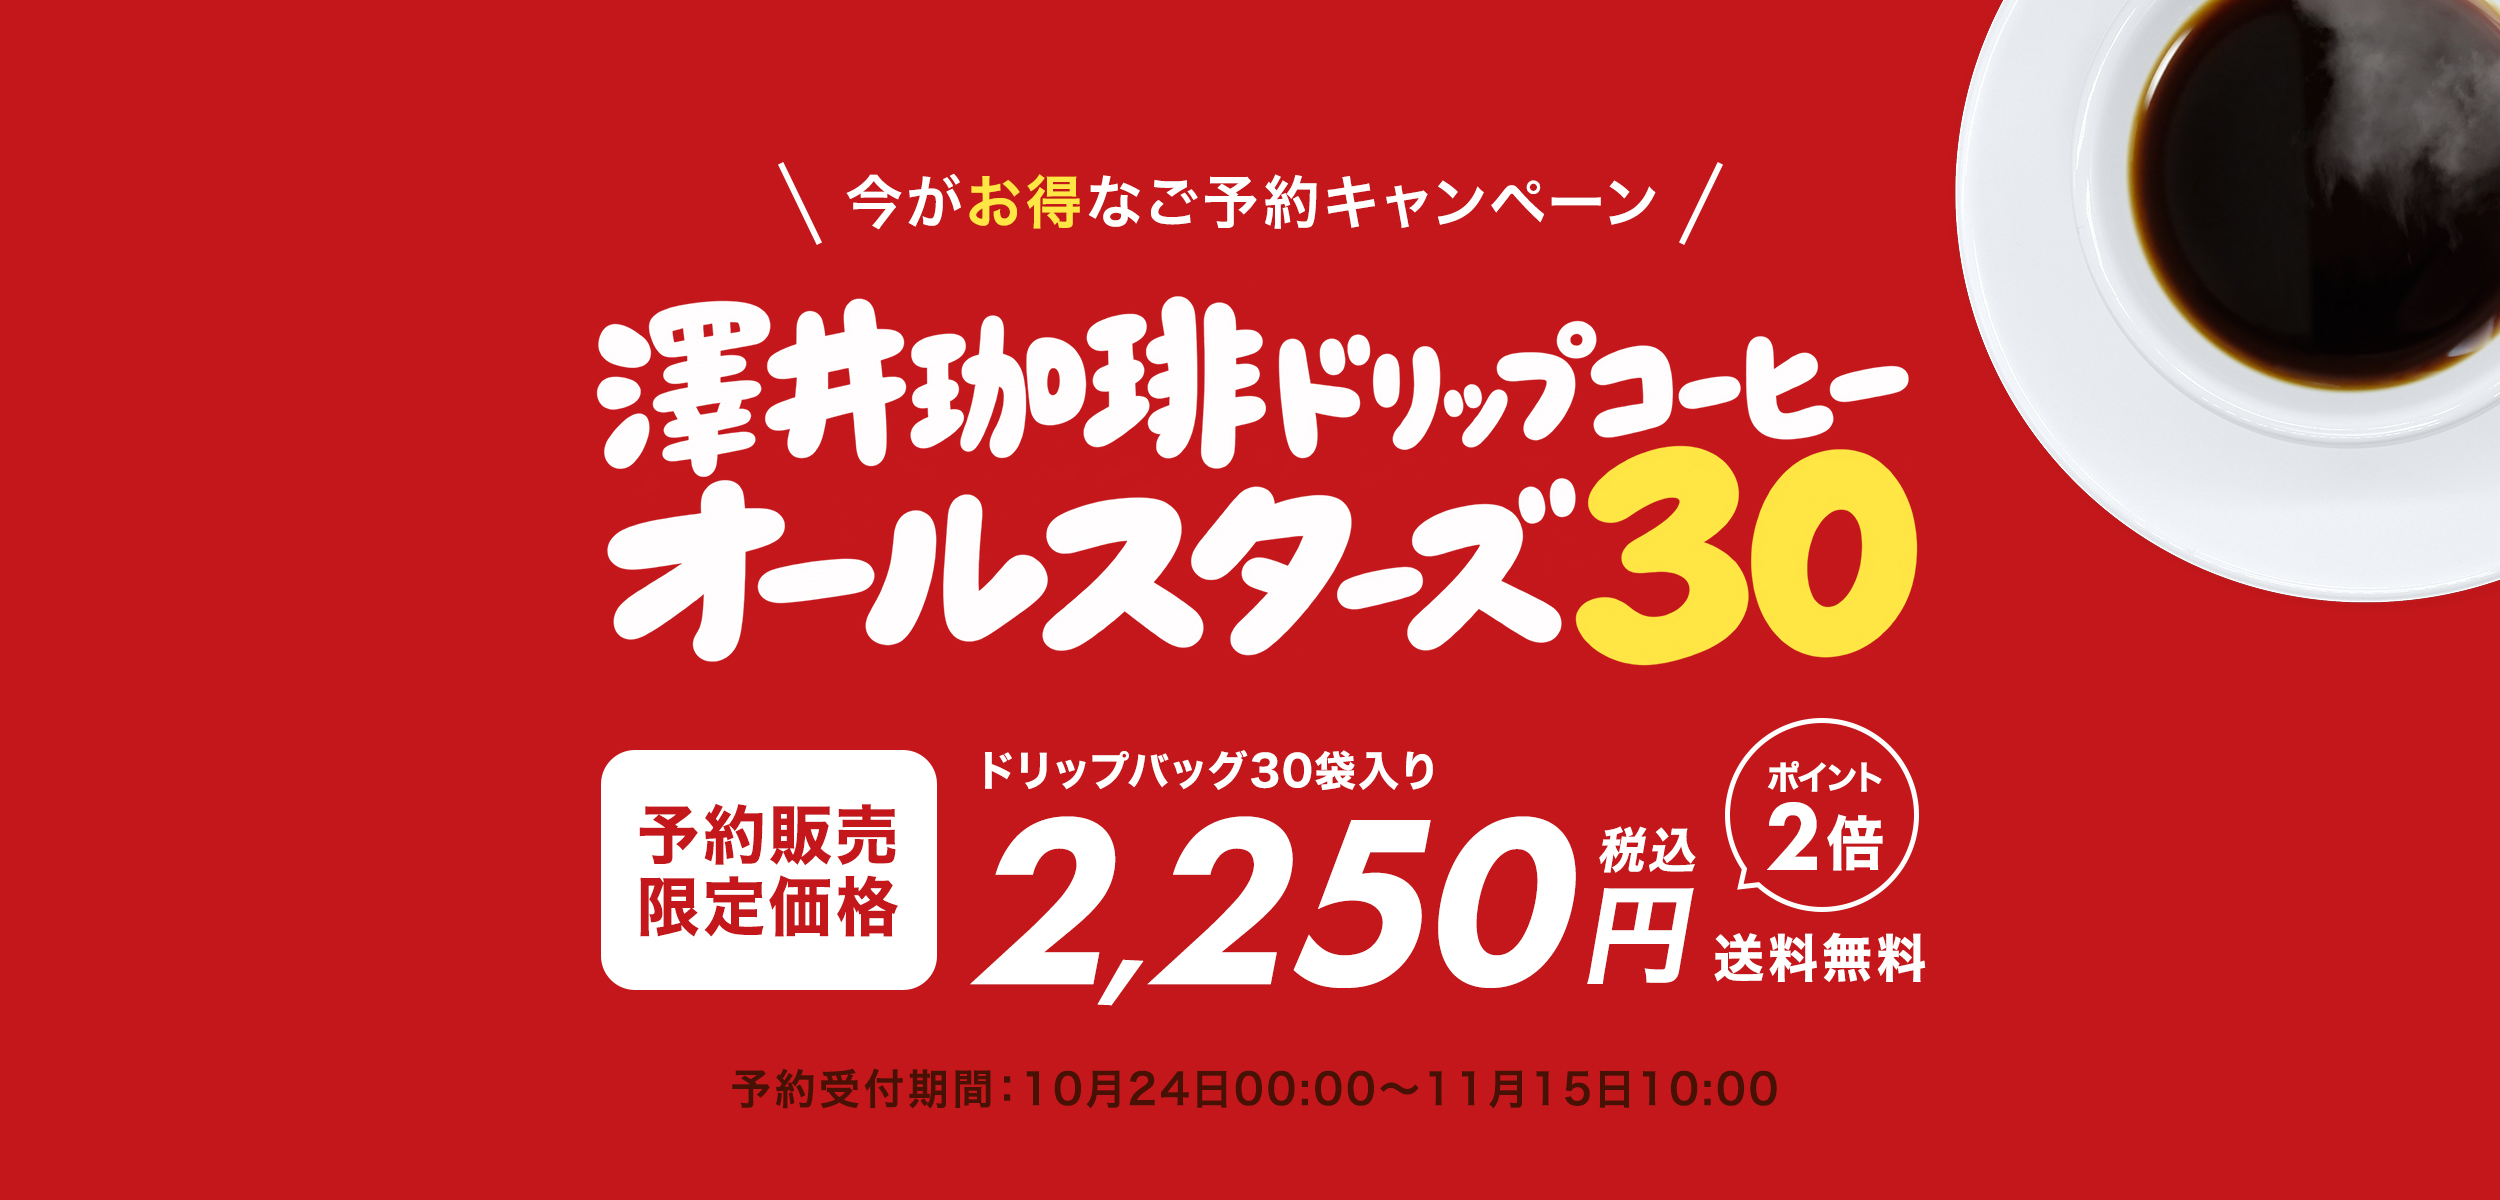
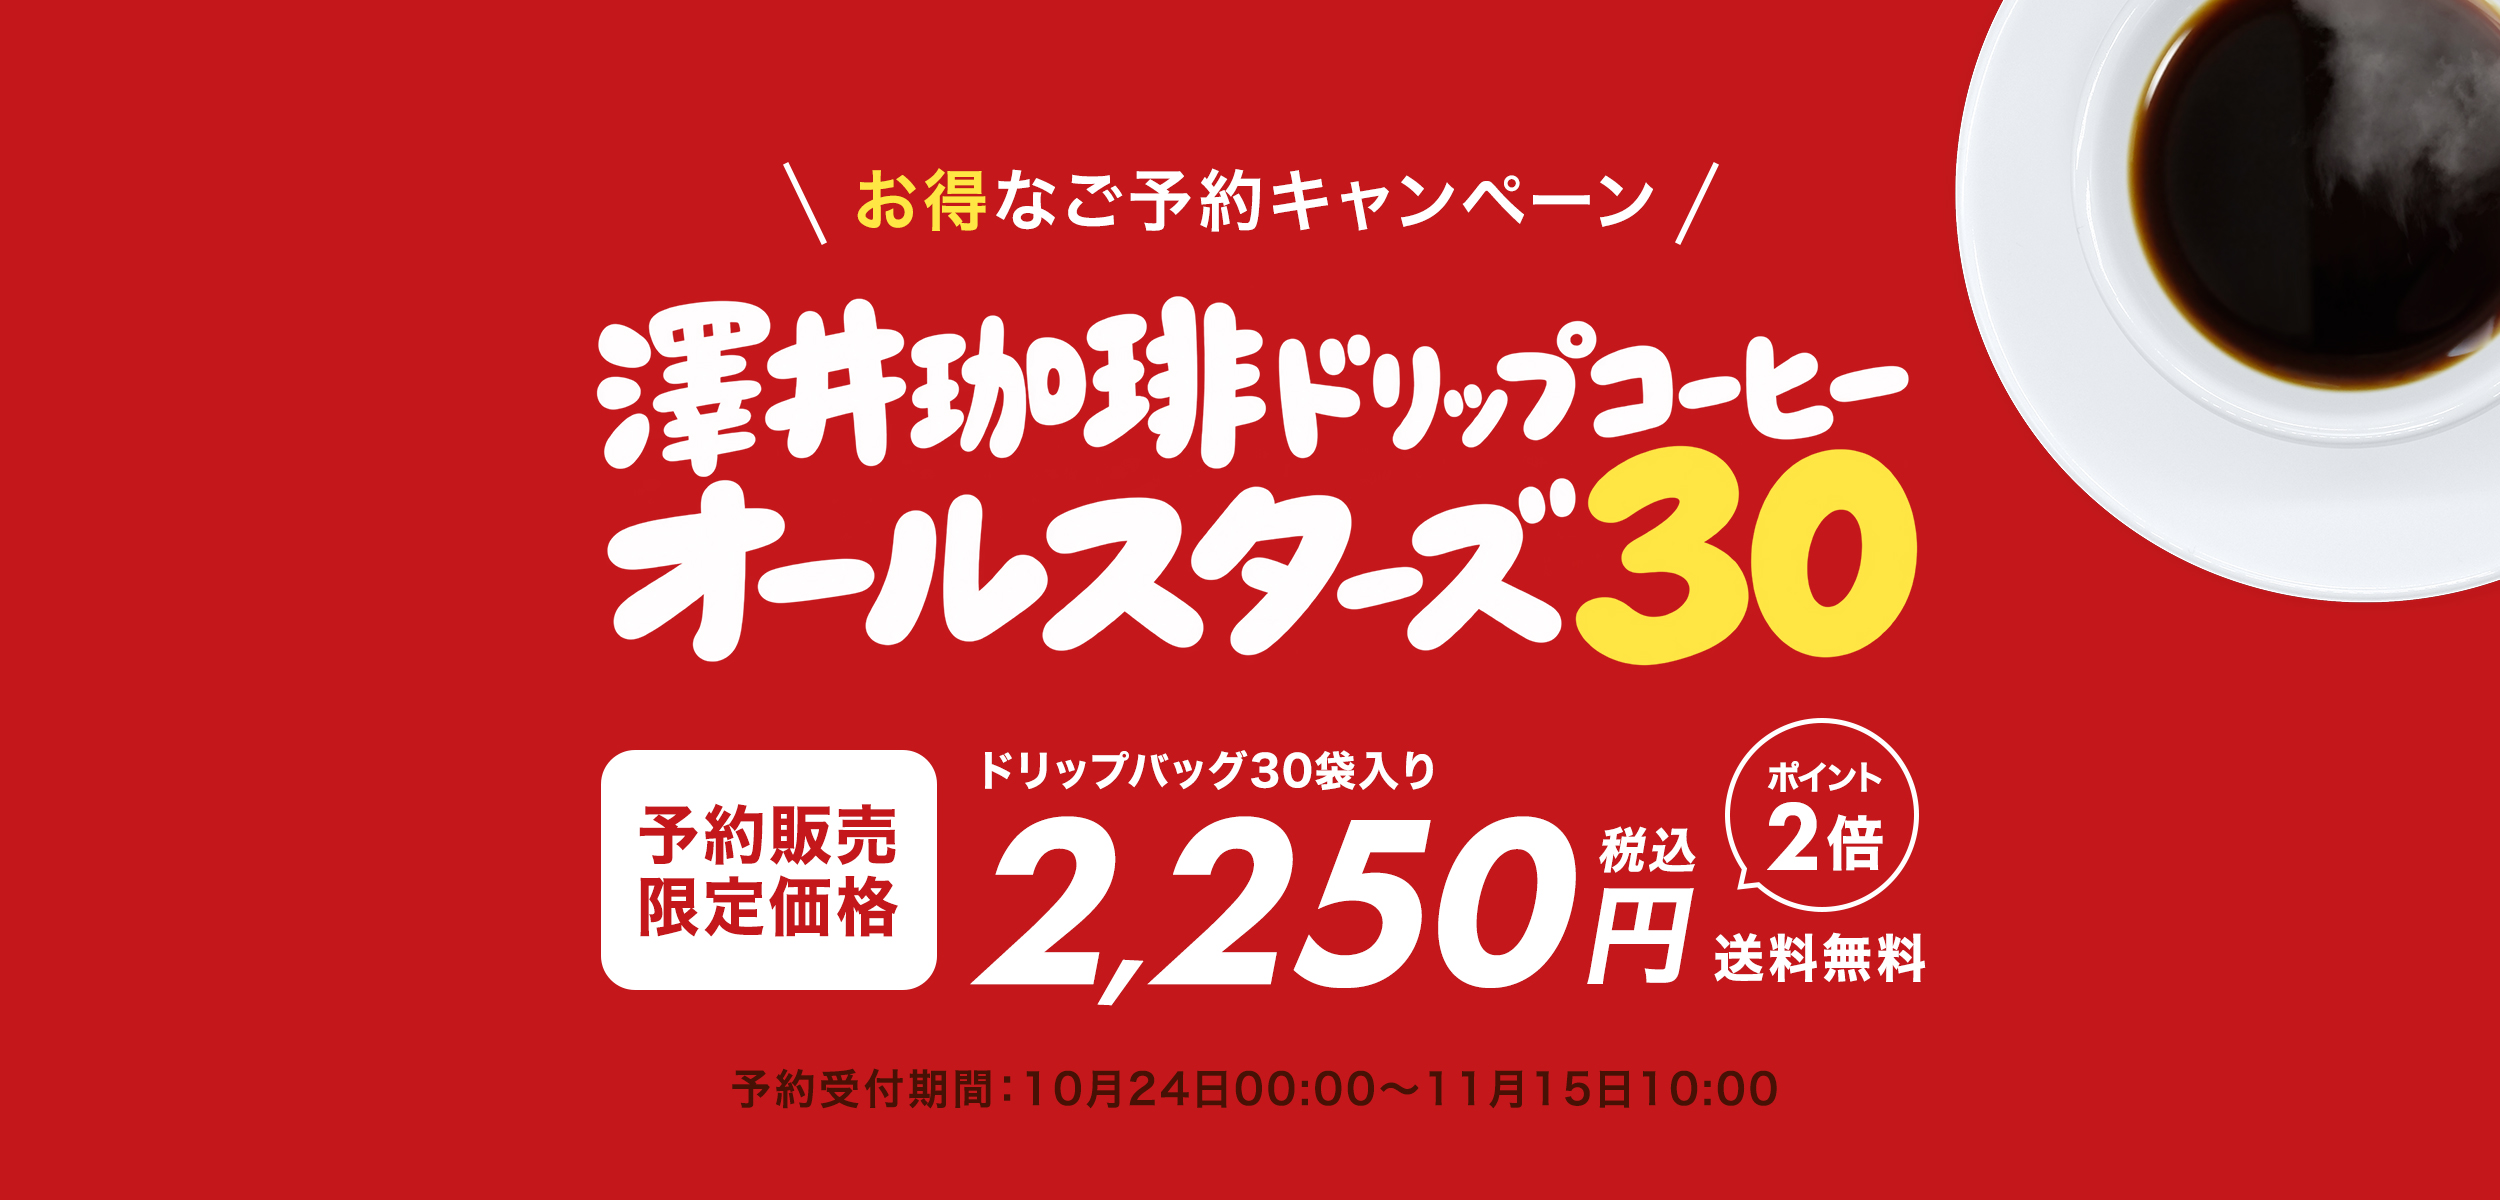
FV画像（PC・スマホ）を差し替え、スマホのヘッダーをロゴ中央＋発売日の小見出しに

Changed region(s): [[0.312, 0.1233, 0.6864, 0.2158]]

diff --git a/index.html b/index.html
@@ -57,6 +57,7 @@ button{font:inherit;cursor:pointer;border:0;background:none;color:inherit}
 .hd-cta{background:var(--white);color:#d0121c;font-weight:800;font-size:13px;padding:8px 18px;border-radius:999px;text-decoration:none;transition:transform .2s}
 
 .hd-cta:hover{transform:scale(1.05)}
+.hd-sp-sub{display:none}
 /* メニュー（PC：ヘッダーに横並び／スマホ：ハンバーガーで開く） */
 .hd-nav{margin-left:auto;margin-right:20px}
 .hd-nav ul{display:flex;gap:22px;list-style:none}
@@ -80,13 +81,13 @@ html{scroll-padding-top:72px}
 @media (max-width:1100px){.pc-nav a{font-size:13px;padding:18px 4px}}
 @media (max-width:768px){.pc-nav{display:none}}
 @media (max-width:768px){
-  html{scroll-padding-top:58px}
-  .hd-burger{display:flex;flex-direction:column;justify-content:center;gap:5px;width:44px;height:44px;margin-right:-8px;padding:0 10px}
+  html{scroll-padding-top:70px}
+  .hd-burger{display:flex;flex-direction:column;justify-content:center;gap:5px;width:44px;height:44px;padding:0 10px}
   .hd-burger span{display:block;height:2px;background:var(--white);border-radius:2px;transition:transform .3s,opacity .3s}
   .hd.menu-on .hd-burger span:nth-child(1){transform:translateY(7px) rotate(45deg)}
   .hd.menu-on .hd-burger span:nth-child(2){opacity:0}
   .hd.menu-on .hd-burger span:nth-child(3){transform:translateY(-7px) rotate(-45deg)}
-  .hd-nav{display:block;position:fixed;left:0;right:0;top:52px;bottom:0;margin:0;background:#d0121c;padding:12px 24px 40px;overflow:auto;opacity:0;visibility:hidden;transform:translateY(-10px);transition:opacity .25s,transform .25s,visibility .25s}
+  .hd-nav{display:block;position:fixed;left:0;right:0;top:64px;bottom:0;margin:0;background:#d0121c;padding:12px 24px 40px;overflow:auto;opacity:0;visibility:hidden;transform:translateY(-10px);transition:opacity .25s,transform .25s,visibility .25s}
   .hd.menu-on .hd-nav{opacity:1;visibility:visible;transform:none}
   .hd-nav ul{flex-direction:column;gap:0}
   .hd-nav li{border-bottom:1px solid rgba(255,255,255,.25)}
@@ -194,7 +195,7 @@ html{scroll-padding-top:72px}
 }
 @media (max-width:768px){.fv-img{display:none}}
 /* ===== スマホのFV（画像＋流れる2列） ===== */
-.fv-sp{display:none;padding-top:52px;background:#c4171b}
+.fv-sp{display:none;padding-top:64px;background:#c4171b}
 .fv-sp-in{position:relative;overflow:hidden}
 .fv-sp-in>img:first-child{display:block;width:100%;height:auto}
 .fv-row{position:absolute;left:0;right:0;height:16.53%;overflow:hidden}
@@ -451,8 +452,10 @@ html{scroll-padding-top:72px}
   .cd-lbl{font-size:14px}
   .cd-time b{font-size:32px}
   .cd-u{font-size:12px;margin-right:2px}
-  .hd{height:52px;padding:0 16px}
-  .hd-logo img{height:26px}
+  .hd{height:64px;padding:0 16px;flex-direction:column;justify-content:center;gap:4px}
+  .hd-logo img{height:24px}
+  .hd-sp-sub{display:block!important;color:var(--white);font-size:11px;font-weight:700;letter-spacing:.06em;line-height:1.2}
+  .hd-burger{position:absolute;right:12px;top:50%;transform:translateY(-50%)}
   .hd-cta{display:none}
   .wrap{padding:0 16px}
   .fv{grid-template-columns:1fr;min-height:0;padding:0}
@@ -554,6 +557,7 @@ html{scroll-padding-top:72px}
 
 <header class="hd" id="hd">
   <a class="hd-logo" href="https://www.rakuten.co.jp/sawaicoffee-tea/" target="_blank" rel="noopener"><img src="img/logo.png" width="960" height="160" alt="SAWAI COFFEE 澤井珈琲"></a>
+  <p class="hd-sp-sub">発売日11月15日『オールスターズ30』</p>
   <p class="hd-ttl">発売日11月15日『オールスターズ30』ご予約キャンペーン</p>
   <nav class="hd-nav" id="hdNav" aria-label="メニュー">
     <ul>
@@ -577,7 +581,7 @@ html{scroll-padding-top:72px}
 <h1 class="vh" id="top">澤井珈琲ドリップコーヒー オールスターズ30｜予約販売限定価格2,250円（税込）送料無料</h1>
 <section class="fv-img">
   <div class="fv-img-in">
-    <img src="img/fv-pc.jpg" width="2500" height="1200" alt="今がお得なご予約キャンペーン　澤井珈琲ドリップコーヒー オールスターズ30　ドリップバッグ30袋入り　予約販売限定価格 2,250円（税込）送料無料　ポイント2倍　予約受付期間：10月24日00:00〜11月15日10:00">
+    <img src="img/fv-pc.jpg" width="2500" height="1200" alt="お得なご予約キャンペーン　澤井珈琲ドリップコーヒー オールスターズ30　ドリップバッグ30袋入り　予約販売限定価格 2,250円（税込）送料無料　ポイント2倍　予約受付期間：10月24日00:00〜11月15日10:00">
     <!-- 左の2列：ドリップバッグが縦に流れる（中身はJSで30種を入れる） -->
     <div class="fv-col c1" aria-hidden="true"><div class="fv-track" id="fvTrack1"></div></div>
     <div class="fv-col c2" aria-hidden="true"><div class="fv-track" id="fvTrack2"></div></div>
@@ -600,7 +604,7 @@ html{scroll-padding-top:72px}
 <!-- ▼ スマホのFV（画像＋横に流れる2列＋コーヒーカップ）。PCは上の画像FV -->
 <section class="fv-sp">
   <div class="fv-sp-in">
-    <img src="img/fv-sp.jpg" width="1500" height="2063" alt="今がお得なご予約キャンペーン　澤井珈琲ドリップコーヒー オールスターズ30　ドリップバッグ30袋入り　予約販売限定価格 2,250円（税込）送料無料　ポイント2倍　予約受付期間：10月24日00:00〜11月15日10:00">
+    <img src="img/fv-sp.jpg" width="1500" height="2063" alt="お得なご予約キャンペーン　澤井珈琲ドリップコーヒー オールスターズ30　ドリップバッグ30袋入り　予約販売限定価格 2,250円（税込）送料無料　ポイント2倍　予約受付期間：10月24日00:00〜11月15日10:00">
     <!-- 画像1500×2063のうち y=1252〜1593 と y=1622〜1963 の位置に、袋が横に流れる2列 -->
     <div class="fv-row r1" aria-hidden="true"><div class="fv-row-track" id="spTrack1"></div></div>
     <div class="fv-row r2" aria-hidden="true"><div class="fv-row-track" id="spTrack2"></div></div>

diff --git a/README.md b/README.md
@@ -17,7 +17,7 @@
 
 ## ヘッダー
 - ロゴ：`img/logo.png`（ヘッダー・フッターとも澤井珈琲トップ https://www.rakuten.co.jp/sawaicoffee-tea/ へ別タブでリンク）（デスクトップ「澤井珈琲30」フォルダの logo.png。960×160・赤地に白文字。元画像の一番上の1行が薄いピンクだったため、ページ用のコピーだけ赤で塗りつぶし済み）
-- 背景はロゴの赤 #d0121c に合わせて常に赤。ロゴの高さはPC 36px／スマホ 26px
+- 背景はロゴの赤 #d0121c に合わせて常に赤。ロゴの高さはPC 36px／スマホ 24px。スマホはロゴを中央にして、その下に小さく「発売日11月15日『オールスターズ30』」（ヘッダーの高さ64px、ハンバーガーは右端）
 - メニュー：30種の飲み比べ／予約特典について／30種ラインナップ／本日のおすすめ／味わいタイプ／楽しみ方／商品概要。PCはFVのすぐ下に横並びのメニュー（ヘッダーにはロゴの横に「発売日11月15日『オールスターズ30』ご予約キャンペーン」）、スマホは右上のハンバーガーで赤い全面メニューが開く（下に「ご予約はこちら」ボタン。リンクを押すかEscで閉じる）
 - スマホはFVのすぐ下に、FVと同じ赤（#c4171b）の「ご予約はこちら」ボタン。画面下の黒い帯も「ご予約はこちら」
 
